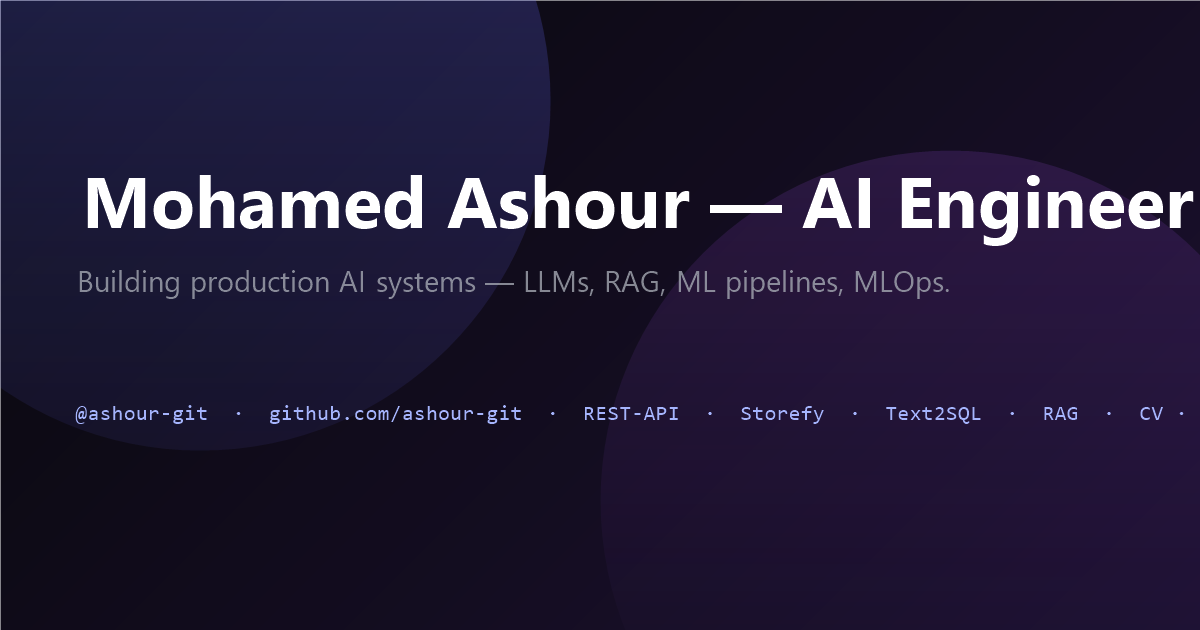
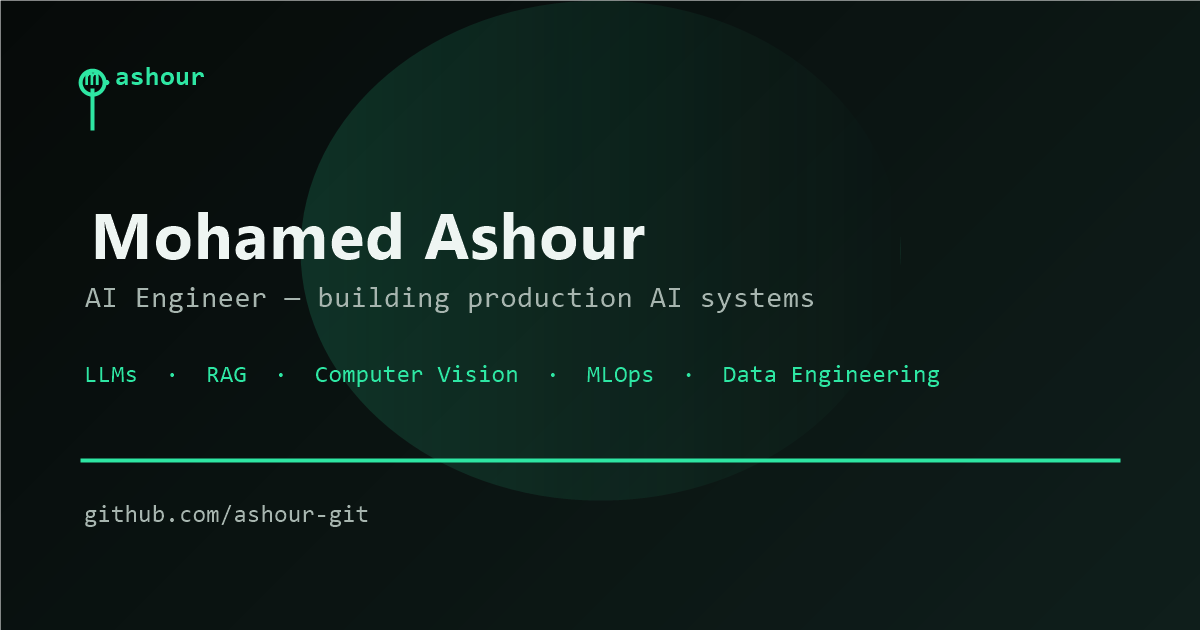
Rebrand portfolio to jade/obsidian identity
- Swap indigo/violet/fuchsia palette for mint jade + lagoon aqua
- Dark theme: #2ee6a3 / #0ea5c9; light theme: #0d8a5f / #06767e
- Flip gradient CTAs to inverse ink text for contrast in both themes
- Remap aurora, grid glow, hero text gradient, architecture diagram nodes
- Remaster restai + hand-gesture covers, portrait, favicon, regenerate OG
- Re-match project card fallback gradients to new covers

diff --git a/components/projects.tsx b/components/projects.tsx
@@ -64,38 +64,37 @@ export function Projects() {
   return (
     <section id="work" className="relative scroll-mt-24 py-24 md:py-32">
       <div className="mx-auto w-full max-w-6xl px-6 md:px-10">
-        <div className="mb-12 flex flex-col gap-8 md:mb-16 md:flex-row md:items-end md:justify-between">
-          <div>
-            <p className="mb-3 font-mono text-xs uppercase tracking-[0.22em] text-ink-faint">
+        <div className="mb-12 md:mb-16">
+          <div className="flex flex-wrap items-center gap-x-6 gap-y-4">
+            <p className="font-mono text-xs uppercase tracking-[0.22em] text-ink-faint">
               Featured AI Products
             </p>
-            <h2 className="max-w-xl text-3xl font-semibold tracking-tight text-ink md:text-[2.5rem] md:leading-[1.1]">
-              Built as systems,{" "}
-              <span className="font-serif italic font-normal text-ink">
-                shipped as products.
-              </span>
-            </h2>
+            <div
+              className="ml-auto flex flex-wrap items-center gap-2"
+              role="group"
+              aria-label="Filter projects by domain"
+            >
+              {projectFilters.map((f) => (
+                <button
+                  key={f}
+                  onClick={() => setFilter(f)}
+                  className={`rounded-full border px-3.5 py-1.5 font-mono text-xs transition-colors ${
+                    filter === f
+                      ? "border-transparent bg-gradient-to-r from-accent to-accent-2 text-bg"
+                      : "border-line bg-surface text-ink-soft hover:text-ink"
+                  }`}
+                >
+                  {f}
+                </button>
+              ))}
+            </div>
           </div>
-
-          <div
-            className="flex flex-wrap gap-2"
-            role="group"
-            aria-label="Filter projects by domain"
-          >
-            {projectFilters.map((f) => (
-              <button
-                key={f}
-                onClick={() => setFilter(f)}
-                className={`rounded-full border px-3.5 py-1.5 font-mono text-xs transition-colors ${
-                  filter === f
-                    ? "border-transparent bg-gradient-to-r from-accent to-accent-2 text-white"
-                    : "border-line bg-surface text-ink-soft hover:text-ink"
-                }`}
-              >
-                {f}
-              </button>
-            ))}
-          </div>
+          <h2 className="mt-5 max-w-2xl text-3xl font-semibold tracking-tight text-ink md:text-[2.5rem] md:leading-[1.1]">
+            Built as systems,{" "}
+            <span className="font-serif italic font-normal text-ink">
+              shipped as products.
+            </span>
+          </h2>
         </div>
 
         <Flagship p={featured} />
@@ -151,7 +150,7 @@ function Flagship({ p }: { p: Project }) {
       </div>
 
       {/* tagline + links */}
-      <div className="mt-10 grid gap-8 lg:grid-cols-[1.2fr_0.8fr]">
+      <div className="mt-10 grid items-center gap-8 lg:grid-cols-[1.2fr_0.8fr]">
         <div>
           <p className="mb-2 font-mono text-xs uppercase tracking-[0.22em] text-ink-faint">
             Flagship product
@@ -166,10 +165,10 @@ function Flagship({ p }: { p: Project }) {
             {p.tagline}
           </p>
         </div>
-        <div className="flex flex-wrap items-start gap-3 lg:justify-end">
+        <div className="flex flex-wrap items-center gap-3 lg:justify-end">
           <a
             href={studyHref(p)}
-            className="inline-flex items-center gap-2 rounded-full bg-gradient-to-r from-accent to-accent-2 px-5 py-2.5 text-sm font-semibold text-white transition-opacity hover:opacity-90"
+            className="inline-flex items-center gap-2 rounded-full bg-gradient-to-r from-accent to-accent-2 px-5 py-2.5 text-sm font-semibold text-bg transition-opacity hover:opacity-90"
           >
             Case study
             <ArrowIcon className="h-4 w-4" />

diff --git a/app/globals.css b/app/globals.css
@@ -1,20 +1,20 @@
 @import "tailwindcss";
 
 @theme {
-  --color-bg: #08080c;
-  --color-bg-2: #0b0b12;
+  --color-bg: #060a09;
+  --color-bg-2: #0b1211;
   --color-surface: rgba(255, 255, 255, 0.04);
   --color-surface-2: rgba(255, 255, 255, 0.07);
   --color-border: rgba(255, 255, 255, 0.09);
   --color-border-strong: rgba(255, 255, 255, 0.16);
 
-  --color-ink: #f4f5f7;
-  --color-ink-soft: #a6aab4;
-  --color-ink-faint: #8b8fa2;
+  --color-ink: #eef5f2;
+  --color-ink-soft: #a7b5af;
+  --color-ink-faint: #7d8d86;
 
-  --color-accent: #6366f1;
-  --color-accent-2: #a855f7;
-  --color-accent-soft: rgba(99, 102, 241, 0.14);
+  --color-accent: #2ee6a3;
+  --color-accent-2: #0ea5c9;
+  --color-accent-soft: rgba(46, 230, 163, 0.14);
 
   --color-line: rgba(255, 255, 255, 0.1);
 
@@ -27,22 +27,22 @@
 
 /* light theme overrides */
 :root[data-theme="light"] {
-  --color-bg: #f6f5f3;
-  --color-bg-2: #faf9f7;
+  --color-bg: #f4f7f5;
+  --color-bg-2: #fafcfa;
   --color-surface: rgba(255, 255, 255, 0.6);
   --color-surface-2: rgba(255, 255, 255, 0.75);
-  --color-border: rgba(24, 24, 29, 0.1);
-  --color-border-strong: rgba(24, 24, 29, 0.18);
+  --color-border: rgba(16, 44, 32, 0.1);
+  --color-border-strong: rgba(16, 44, 32, 0.18);
 
-  --color-ink: #141419;
-  --color-ink-soft: #45454d;
-  --color-ink-faint: #6f6f7a;
+  --color-ink: #0f1a16;
+  --color-ink-soft: #3a4a44;
+  --color-ink-faint: #5c6b64;
 
-  --color-accent: #4f46e5;
-  --color-accent-2: #9333ea;
-  --color-accent-soft: rgba(79, 70, 229, 0.1);
+  --color-accent: #0d8a5f;
+  --color-accent-2: #06767e;
+  --color-accent-soft: rgba(13, 138, 95, 0.1);
 
-  --color-line: rgba(24, 24, 29, 0.1);
+  --color-line: rgba(16, 44, 32, 0.1);
 }
 
 /* ---------- base ---------- */
@@ -96,10 +96,10 @@ body {
   z-index: -1;
   pointer-events: none;
   background:
-    radial-gradient(1000px 560px at 12% -10%, rgba(99, 102, 241, 0.18), transparent 62%),
-    radial-gradient(900px 540px at 94% 4%, rgba(168, 85, 247, 0.14), transparent 60%),
-    radial-gradient(1100px 720px at 55% 118%, rgba(99, 102, 241, 0.12), transparent 62%),
-    radial-gradient(700px 520px at 8% 70%, rgba(147, 51, 234, 0.06), transparent 60%),
+    radial-gradient(1000px 560px at 12% -10%, rgba(46, 230, 163, 0.16), transparent 62%),
+    radial-gradient(900px 540px at 94% 4%, rgba(14, 165, 201, 0.14), transparent 60%),
+    radial-gradient(1100px 720px at 55% 118%, rgba(46, 230, 163, 0.1), transparent 62%),
+    radial-gradient(700px 520px at 8% 70%, rgba(14, 165, 201, 0.08), transparent 60%),
     linear-gradient(180deg, var(--color-bg) 0%, var(--color-bg-2) 100%);
 }
 
@@ -162,13 +162,13 @@ body {
 }
 
 .text-gradient {
-  background: linear-gradient(120deg, #a5b4fc, #c084fc 60%, #f0abfc);
+  background: linear-gradient(120deg, #7bfecd 0%, #2ee6a3 45%, #38d9e8 100%);
   -webkit-background-clip: text;
   background-clip: text;
   color: transparent;
 }
 :root[data-theme="light"] .text-gradient {
-  background: linear-gradient(120deg, #4f46e5, #9333ea 70%);
+  background: linear-gradient(120deg, #0da36d 0%, #0c8a5f 55%, #0673a3 100%);
   -webkit-background-clip: text;
   background-clip: text;
   color: transparent;

diff --git a/components/architecture-diagram.tsx b/components/architecture-diagram.tsx
@@ -4,21 +4,21 @@ import { motion } from "framer-motion";
 import type { ArchFlow } from "@/lib/data";
 
 const kindColor: Record<string, string> = {
-  client: "text-sky-300 border-sky-400/30 bg-sky-400/10",
-  api: "text-indigo-300 border-indigo-400/30 bg-indigo-400/10",
-  model: "text-violet-300 border-violet-400/30 bg-violet-400/10",
-  gate: "text-emerald-300 border-emerald-400/30 bg-emerald-400/10",
-  db: "text-amber-300 border-amber-400/30 bg-amber-400/10",
-  outcome: "text-fuchsia-300 border-fuchsia-400/30 bg-fuchsia-400/10",
+  client: "text-cyan-300 border-cyan-400/30 bg-cyan-400/10",
+  api: "text-teal-300 border-teal-400/30 bg-teal-400/10",
+  model: "text-emerald-300 border-emerald-400/30 bg-emerald-400/10",
+  gate: "text-amber-300 border-amber-400/30 bg-amber-400/10",
+  db: "text-sky-300 border-sky-400/30 bg-sky-400/10",
+  outcome: "text-rose-300 border-rose-400/30 bg-rose-400/10",
 };
 
 const kindDot: Record<string, string> = {
-  client: "bg-sky-400",
-  api: "bg-indigo-400",
-  model: "bg-violet-400",
-  gate: "bg-emerald-400",
-  db: "bg-amber-400",
-  outcome: "bg-fuchsia-400",
+  client: "bg-cyan-400",
+  api: "bg-teal-400",
+  model: "bg-emerald-400",
+  gate: "bg-amber-400",
+  db: "bg-sky-400",
+  outcome: "bg-rose-400",
 };
 
 export function ArchitectureDiagram({ flow }: { flow: ArchFlow }) {

diff --git a/lib/data.ts b/lib/data.ts
@@ -139,7 +139,7 @@ export const projects: Project[] = [
     featured: true,
     impact: ["162 automated tests", "Optuna-tuned forecasts", "RAG over live data"],
     image: "/projects/restai.svg",
-    gradient: "from-indigo-500 via-violet-500 to-fuchsia-500",
+    gradient: "from-teal-500 via-emerald-500 to-cyan-500",
     study: {
       slug: "restai",
       requirements: [
@@ -241,7 +241,7 @@ export const projects: Project[] = [
     note: "generative onboarding",
     domain: "Backend & Agentic AI",
     image: "/projects/storefy.svg",
-    gradient: "from-sky-500 via-blue-500 to-indigo-500",
+    gradient: "from-cyan-500 via-sky-600 to-blue-600",
     study: {
       slug: "storefy",
       requirements: [
@@ -438,7 +438,7 @@ export const projects: Project[] = [
     note: "real-time inference",
     domain: "Computer Vision",
     image: "/projects/hand-gesture.svg",
-    gradient: "from-rose-500 via-pink-500 to-fuchsia-500",
+    gradient: "from-cyan-500 via-teal-500 to-emerald-500",
     study: {
       slug: "hand-gesture",
       requirements: [

diff --git a/components/contact.tsx b/components/contact.tsx
@@ -37,7 +37,7 @@ export function Contact() {
             <div className="mt-9 flex flex-wrap items-center gap-3">
               <a
                 href={`mailto:${profile.email}`}
-                className="group inline-flex items-center gap-2 rounded-full bg-gradient-to-r from-accent to-accent-2 px-6 py-3 text-sm font-semibold text-white transition-opacity hover:opacity-90"
+                className="group inline-flex items-center gap-2 rounded-full bg-gradient-to-r from-accent to-accent-2 px-6 py-3 text-sm font-semibold text-bg transition-opacity hover:opacity-90"
               >
                 {profile.email}
                 <ArrowIcon className="h-4 w-4 transition-transform group-hover:translate-x-0.5" />

diff --git a/app/case-studies/[slug]/page.tsx b/app/case-studies/[slug]/page.tsx
@@ -108,7 +108,7 @@ export default async function CaseStudyPage({
                 href={p.href}
                 target="_blank"
                 rel="noopener noreferrer"
-                className="inline-flex items-center gap-2 rounded-full bg-gradient-to-r from-accent to-accent-2 px-6 py-3 text-sm font-semibold text-white transition-opacity hover:opacity-90"
+                className="inline-flex items-center gap-2 rounded-full bg-gradient-to-r from-accent to-accent-2 px-6 py-3 text-sm font-semibold text-bg transition-opacity hover:opacity-90"
               >
                 View source on GitHub
                 <ArrowIcon className="h-4 w-4" />

diff --git a/components/hero.tsx b/components/hero.tsx
@@ -65,7 +65,7 @@ export function Hero() {
                 href={profile.resume}
                 target="_blank"
                 rel="noopener noreferrer"
-                className="rounded-full bg-gradient-to-r from-accent to-accent-2 px-6 py-3 text-sm font-semibold text-white shadow-lg shadow-accent/25 transition-all hover:shadow-accent/40"
+                className="rounded-full bg-gradient-to-r from-accent to-accent-2 px-6 py-3 text-sm font-semibold text-bg shadow-lg shadow-accent/25 transition-all hover:shadow-accent/40"
               >
                 Resume
               </a>

diff --git a/components/theme-toggle.tsx b/components/theme-toggle.tsx
@@ -30,7 +30,7 @@ export function ThemeToggle() {
     >
       <span
         aria-hidden="true"
-        className={`flex h-5 w-5 items-center justify-center rounded-full bg-gradient-to-tr from-accent to-accent-2 text-[10px] leading-none text-white transition-transform duration-300 ${
+        className={`flex h-5 w-5 items-center justify-center rounded-full bg-gradient-to-tr from-accent to-accent-2 text-[10px] leading-none text-bg transition-transform duration-300 ${
           theme === "light" ? "translate-x-5" : "translate-x-0"
         }`}
       >
